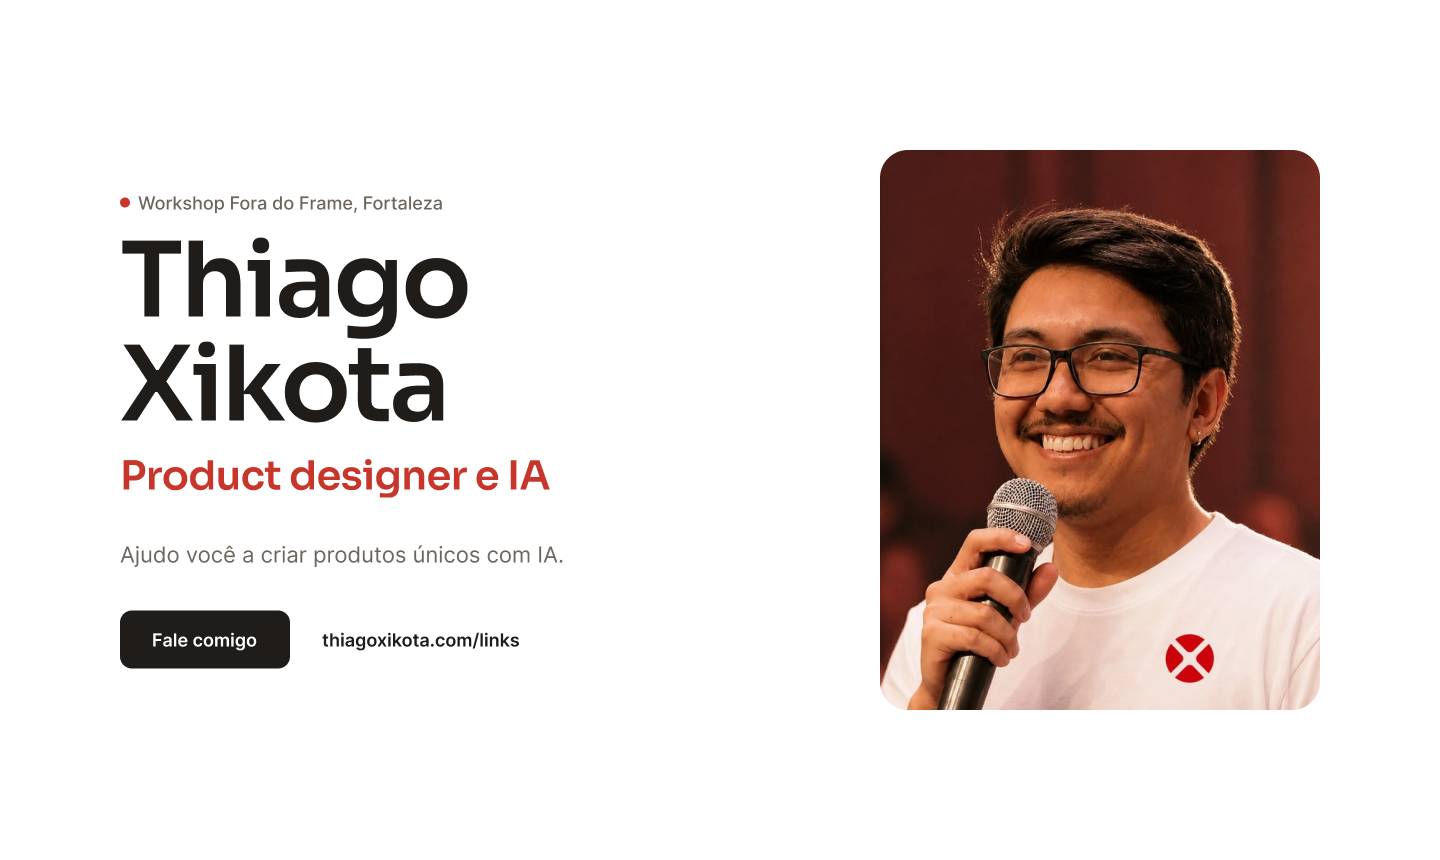
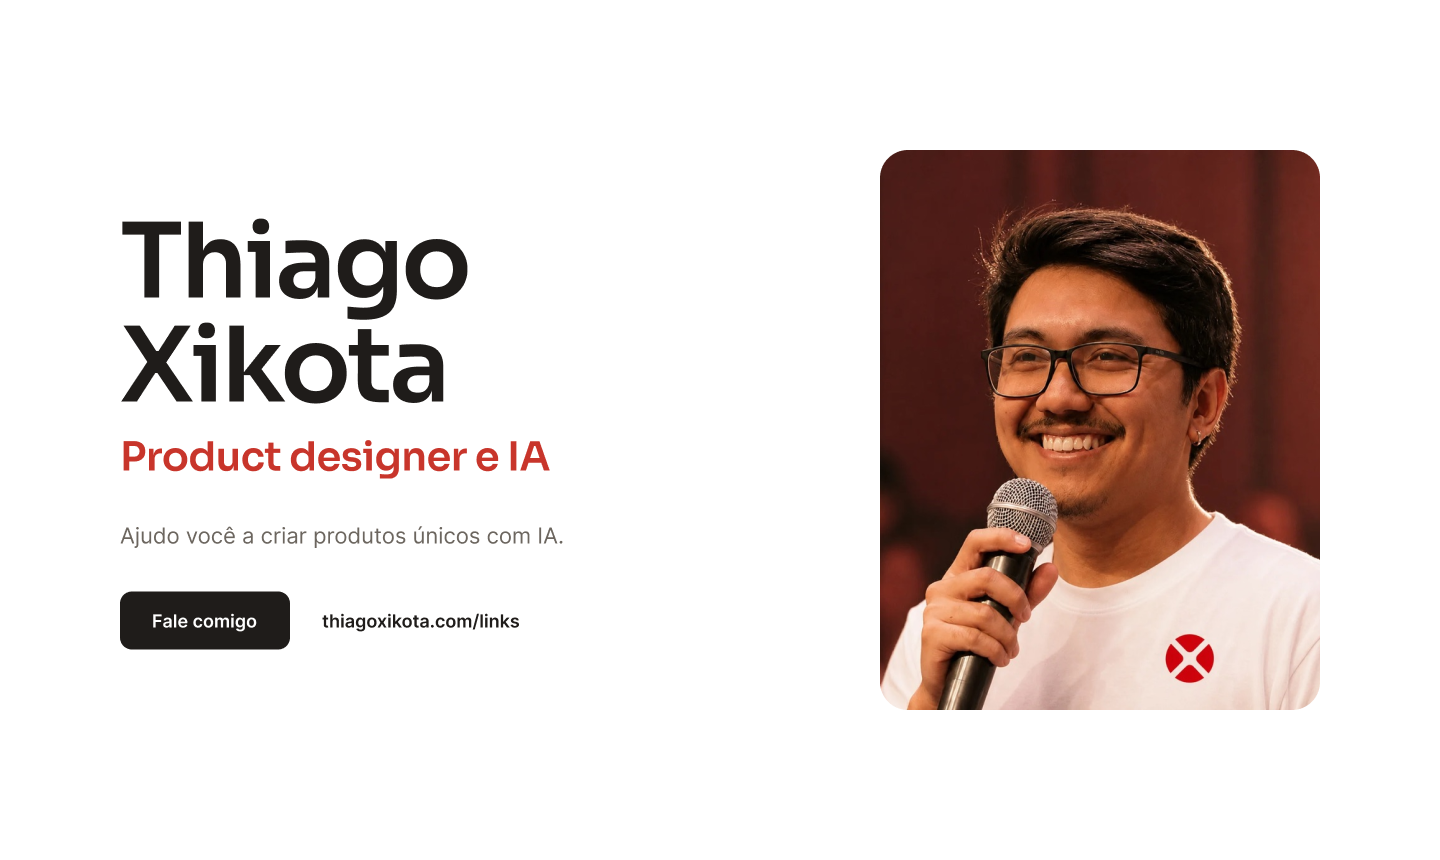
Fortaleza v10: sai o selo de status da hero (AI slop), regra no DESIGN.md

Changed region(s): [[0.0625, 0.2116, 0.4062, 0.5744], [0.0625, 0.6047, 0.4062, 0.786]]

diff --git a/fortaleza/meu-site-kit/reserva/index.html b/fortaleza/meu-site-kit/reserva/index.html
@@ -44,8 +44,6 @@
   }
   .texto { flex: 1 1 0; min-width: 0; max-width: 664px; display: flex; flex-direction: column; gap: 40px; }
   .nome-titulo { display: flex; flex-direction: column; gap: var(--space-2); }
-  .status { display: flex; align-items: center; gap: var(--space-1); font-size: 18px; font-weight: 500; color: var(--text-muted); }
-  .ponto { width: 10px; height: 10px; flex: none; border-radius: 50%; background: var(--brand-primary); }
   h1, .titulo { font-family: Sora, Inter, sans-serif; font-weight: 600; overflow-wrap: break-word; }
   h1 { font-size: clamp(48px, 7.2vw, 104px); line-height: 1; letter-spacing: -0.03em; }
   .titulo { font-size: clamp(26px, 2.8vw, 40px); line-height: 1.1; letter-spacing: -0.015em; color: var(--brand-primary); }
@@ -85,7 +83,6 @@
 <main class="hero">
   <div class="texto">
     <div class="nome-titulo">
-      <p class="status"><span class="ponto" aria-hidden="true"></span>Disponível para novos projetos</p><!-- TROQUE, se quiser -->
       <h1>Seu Nome</h1><!-- TROQUE -->
       <p class="titulo">Product designer</p><!-- TROQUE -->
     </div>

diff --git a/fortaleza/roteiro.md b/fortaleza/roteiro.md
@@ -37,7 +37,7 @@ O foco é o Figma ligado ao agente pelo Figma Console MCP e o plugin Desktop Bri
 - **Figma Desktop Bridge** é o plugin que roda dentro do Figma e abre a porta para o servidor. É ele que escreve no arquivo; a chave do Figma fica só de leitura.
 - **O MCP oficial do Figma** é outra rota, com requisitos próprios. Também escreve no canvas, num beta para planos elegíveis; o Starter (gratuito) fica de fora. Nunca dizer que ele só lê nem que é sempre pago.
 
-**O molde:** página "Minha hero" (a primeira do arquivo da Community), frame "Minha hero", 1440 por 860, com Auto Layout e as variáveis da coleção Workshop Tokens. Camadas: Disponibilidade (ponto e "Status"), Nome (Sora 104), Título profissional (Sora 40, cor `color/brand-primary`), Bio (Inter 22), Ações ("Botão principal" com "Texto do botão", e "Link secundário"), Foto (opcional). Sem projetos e sem erro plantado. Ao lado, "Exemplo pronto: Thiago", a mesma hero personalizada com a foto do Thiago. Imagens: `img/hero-molde.png`, `img/hero-exemplo-thiago.png`.
+**O molde:** página "Minha hero" (a primeira do arquivo da Community), frame "Minha hero", 1440 por 860, com Auto Layout e as variáveis da coleção Workshop Tokens. Camadas: Nome (Sora 104), Título profissional (Sora 40, cor `color/brand-primary`), Bio (Inter 22), Ações ("Botão principal" com "Texto do botão", e "Link secundário"), Foto (opcional). Sem projetos e sem erro plantado. Ao lado, "Exemplo pronto: Thiago", a mesma hero personalizada com a foto do Thiago. Imagens: `img/hero-molde.png`, `img/hero-exemplo-thiago.png`.
 
 **Os dados vêm de casa:** cada pessoa preenche o `meu-site-kit/meus-dados.txt` (nome, título, bio, botão e link, cor principal, fundo) e cola no prompt 1. Ninguém escreve bio na sala.
 

diff --git a/fortaleza/guia-participante.md b/fortaleza/guia-participante.md
@@ -270,7 +270,7 @@ Coloque o navegador ao lado do Figma, com o frame "Minha hero" na tela, e confir
 
 1. Os textos são os do frame, palavra por palavra.
 2. As fontes são as do frame: Sora no nome e no título, Inter no resto.
-3. A cor principal está no título e no ponto do status, e o fundo é o que você escolheu.
+3. A cor principal está no título profissional, e o fundo é o que você escolheu.
 4. O botão e o link levam para os endereços certos. Clique para ver.
 5. Estreite a janela do navegador até ficar do tamanho de um celular: a foto vai para baixo e nenhum texto é cortado.
 

diff --git a/fortaleza/meu-site-kit/DESIGN.md b/fortaleza/meu-site-kit/DESIGN.md
@@ -20,7 +20,7 @@ Uma página com uma seção só: a hero do frame "Minha hero". Em 10 segundos, q
 - Contraste AA no mínimo: 4,5 para 1 no texto comum.
 - Sem gradiente e sem sombra genérica.
 - Sem pílula: o botão usa o raio do frame.
-- Sem ícone dentro de círculo e sem emoji.
+- Sem ícone dentro de círculo, sem emoji, sem selo de status ("Disponível para...") com ponto colorido.
 - Sem texto de enfeite: nada de sobretítulo, slogan ou frase que não está no frame.
 
 ## Código
